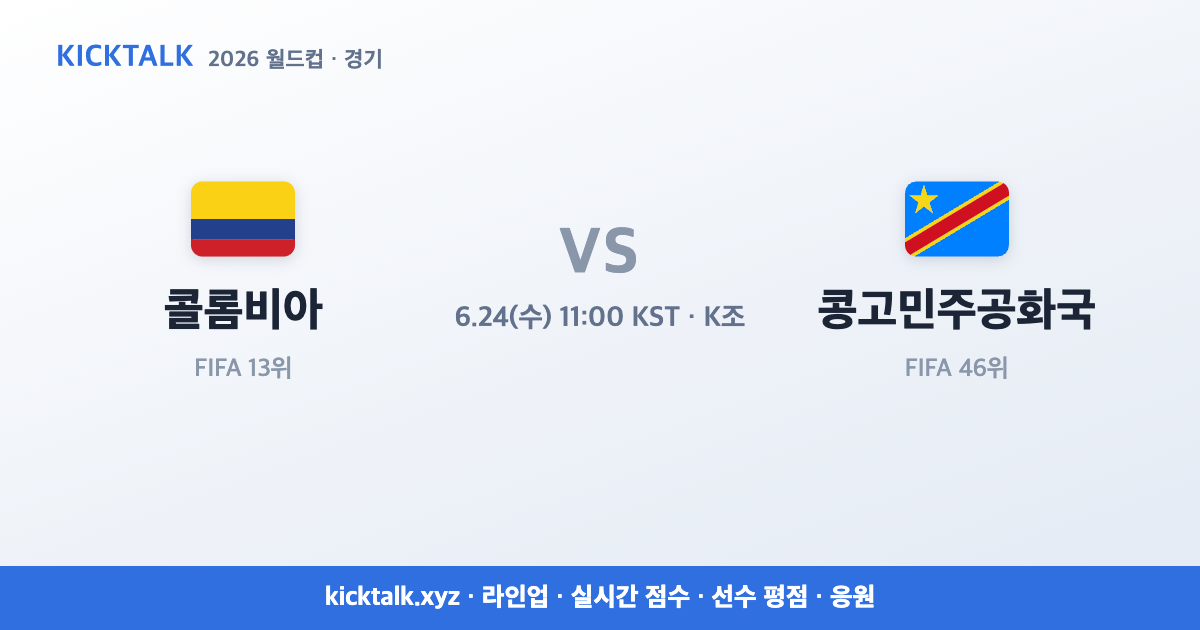
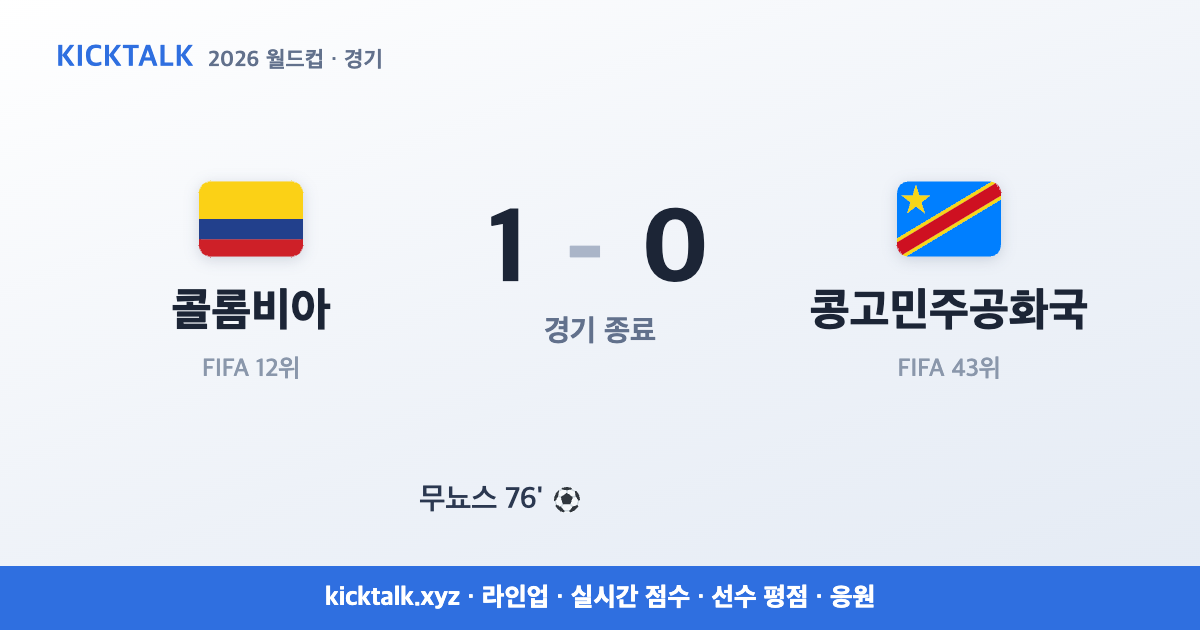
OG 자동재생성(종료경기 결과반영): match-64

diff --git a/m/colombia-vs-dr-congo.html b/m/colombia-vs-dr-congo.html
@@ -1,1 +1,1 @@
-<!DOCTYPE html><html lang=ko><head><meta charset=UTF-8><meta name=viewport content='width=device-width,initial-scale=1'><script async src='https://www.googletagmanager.com/gtag/js?id=G-KNLJ29Y409'></script><script>window.dataLayer=window.dataLayer||[];function gtag(){dataLayer.push(arguments);}gtag('js',new Date());gtag('config','G-KNLJ29Y409');</script><title>콜롬비아 vs 콩고민주공화국 중계·라인업·선수평점 | 킥톡 2026 월드컵</title><meta name=description content='콜롬비아 vs 콩고민주공화국 6/24(수) 11:00 KST 킥오프 (K조). 예상·확정 라인업, 실시간 중계 스코어, 선수 평점·MVP 투표, 응원·하이라이트까지 킥톡에서 한눈에.'><link rel=canonical href='https://kicktalk.xyz/m/colombia-vs-dr-congo.html'><meta name=robots content='index,follow'><meta property=og:type content=website><meta property=og:title content='콜롬비아 vs 콩고민주공화국 — 중계·라인업·평점 | 킥톡'><meta property=og:description content='콜롬비아 vs 콩고민주공화국 6/24(수) 11:00 KST 킥오프 (K조). 예상·확정 라인업, 실시간 중계 스코어, 선수 평점·MVP 투표, 응원·하이라이트까지 킥톡에서 한눈에.'><meta property=og:url content='https://kicktalk.xyz/m/colombia-vs-dr-congo.html'><meta property=og:image content='https://kicktalk.xyz/ogm/colombia-vs-dr-congo.png?v=3'><meta property=og:image:width content='1200'><meta property=og:image:height content='630'><meta name=twitter:card content='summary_large_image'><meta name=twitter:title content='콜롬비아 vs 콩고민주공화국 | 킥톡'><meta name=twitter:description content='콜롬비아 vs 콩고민주공화국 6/24(수) 11:00 KST 킥오프 (K조). 예상·확정 라인업, 실시간 중계 스코어, 선수 평점·MVP 투표, 응원·하이라이트까지 킥톡에서 한눈에.'><meta name=twitter:image content='https://kicktalk.xyz/ogm/colombia-vs-dr-congo.png?v=3'><script type=application/ld+json>{"@context":"https://schema.org","@type":"SportsEvent","name":"콜롬비아 vs 콩고민주공화국","sport":"축구","description":"콜롬비아 vs 콩고민주공화국 6/24(수) 11:00 KST 킥오프 (K조). 예상·확정 라인업, 실시간 중계 스코어, 선수 평점·MVP 투표, 응원·하이라이트까지 킥톡에서 한눈에.","startDate":"2026-06-23","eventStatus":"https://schema.org/EventScheduled","location":{"@type":"Place","name":"Estadio Akron, Zapopan","address":{"@type":"PostalAddress","addressLocality":"Zapopan"}},"image":["https://kicktalk.xyz/ogm/colombia-vs-dr-congo.png"],"url":"https://kicktalk.xyz/m/colombia-vs-dr-congo.html","organizer":{"@type":"Organization","name":"FIFA","url":"https://www.fifa.com"},"performer":[{"@type":"SportsTeam","name":"콜롬비아"},{"@type":"SportsTeam","name":"콩고민주공화국"}],"competitor":[{"@type":"SportsTeam","name":"콜롬비아"},{"@type":"SportsTeam","name":"콩고민주공화국"}]}</script><style>body{margin:0;background:#070d18;color:#eaf0fb;font-family:-apple-system,'Apple SD Gothic Neo',sans-serif;line-height:1.6}.wrap{max-width:680px;margin:0 auto;padding:20px;text-align:center}a{color:#4f8cff;text-decoration:none}.brand{font-weight:800;padding:8px 0;font-size:15px}h1{font-size:26px;margin:18px 0 6px}.vs{color:#9fb0cc;font-size:18px;font-weight:600}.meta{color:#9fb0cc;font-size:14px;margin:0 0 8px}h2{font-size:14px;color:#9fb0cc;margin:22px 0 8px}ul.wp{list-style:none;padding:0;text-align:left}ul.wp li{background:#111c30;border:1px solid #243049;border-radius:8px;padding:9px 12px;margin-bottom:6px;font-size:14px}.cta{display:inline-block;background:#4f8cff;color:#06122a;font-weight:800;border-radius:11px;padding:13px 20px;margin:20px 0 8px}.sub{color:#6f7d96;font-size:12.5px}.tlinks{font-size:13.5px;margin-top:14px}.ft{margin-top:26px;padding-top:14px;border-top:1px solid #243049;color:#6f7d96;font-size:12.5px}.ft a{color:#9fb0cc}</style></head><body><div class=wrap><div class=brand>⚽ <a href='https://kicktalk.xyz/'>킥톡 KickTalk</a></div><h1>🇨🇴 콜롬비아 <span class=vs>vs</span> 콩고민주공화국 🇨🇩</h1><p class=meta>6/24(수) 11:00 KST · K조 · Estadio Akron, Zapopan</p><h2>콜롬비아 vs 콩고민주공화국 경기 정보·중계</h2><p>콜롬비아 vs 콩고민주공화국 경기는 6/24(수) 11:00 KST K조에 열립니다. 예상·확정 라인업과 실시간 중계 스코어, 경기 후 선수 평점·MVP 투표를 킥톡에서 무료로 확인하세요. 경기장: Estadio Akron, Zapopan.</p><h2>관전 포인트</h2><ul class=wp><li>콜롬비아 측면 듀오 디아스·무뇨스의 빠른 돌파 대 음벰바를 축으로 한 콩고민주공화국의 단단한 4백, 측면 속도전이 승부의 분수령이 된다.</li><li>하메스의 창의적 찬스 메이킹과 콩고DR의 역습·세트피스 한 방, 양 팀의 결정적 장면을 만드는 방식이 뚜렷이 갈린다.</li><li>위사·바캄부의 침투를 콜롬비아의 조직적 수비 블록이 봉쇄할 수 있을지가 경기 균형을 가르는 변수다.</li></ul><a class=cta href='https://kicktalk.xyz/#match/match-64'>킥톡에서 실시간 점수·라인업·선수평점 보기 →</a><p class=sub>예상 라인업 · 실시간 스코어 · 선수 평점/MVP 투표 · 응원 메시지 · 포인트 베팅</p><p class=tlinks><a href='https://kicktalk.xyz/t/colombia.html'>콜롬비아 선수단</a> · <a href='https://kicktalk.xyz/t/dr-congo.html'>콩고민주공화국 선수단</a></p><div class=ft><a href='https://kicktalk.xyz/'>홈</a> · <a href='https://kicktalk.xyz/about.html'>소개</a> · <a href='https://kicktalk.xyz/privacy.html'>개인정보처리방침</a> · <a href='https://kicktalk.xyz/terms.html'>서비스 약관</a></div></div></body></html>
+<!DOCTYPE html><html lang=ko><head><meta charset=UTF-8><meta name=viewport content='width=device-width,initial-scale=1'><script async src='https://www.googletagmanager.com/gtag/js?id=G-KNLJ29Y409'></script><script>window.dataLayer=window.dataLayer||[];function gtag(){dataLayer.push(arguments);}gtag('js',new Date());gtag('config','G-KNLJ29Y409');</script><title>콜롬비아 vs 콩고민주공화국 중계·라인업·선수평점 | 킥톡 2026 월드컵</title><meta name=description content='콜롬비아 vs 콩고민주공화국 6/24(수) 11:00 KST 킥오프 (K조). 예상·확정 라인업, 실시간 중계 스코어, 선수 평점·MVP 투표, 응원·하이라이트까지 킥톡에서 한눈에.'><link rel=canonical href='https://kicktalk.xyz/m/colombia-vs-dr-congo.html'><meta name=robots content='index,follow'><meta property=og:type content=website><meta property=og:title content='콜롬비아 vs 콩고민주공화국 — 중계·라인업·평점 | 킥톡'><meta property=og:description content='콜롬비아 vs 콩고민주공화국 6/24(수) 11:00 KST 킥오프 (K조). 예상·확정 라인업, 실시간 중계 스코어, 선수 평점·MVP 투표, 응원·하이라이트까지 킥톡에서 한눈에.'><meta property=og:url content='https://kicktalk.xyz/m/colombia-vs-dr-congo.html'><meta property=og:image content='https://kicktalk.xyz/ogm/colombia-vs-dr-congo.png?v=4'><meta property=og:image:width content='1200'><meta property=og:image:height content='630'><meta name=twitter:card content='summary_large_image'><meta name=twitter:title content='콜롬비아 vs 콩고민주공화국 | 킥톡'><meta name=twitter:description content='콜롬비아 vs 콩고민주공화국 6/24(수) 11:00 KST 킥오프 (K조). 예상·확정 라인업, 실시간 중계 스코어, 선수 평점·MVP 투표, 응원·하이라이트까지 킥톡에서 한눈에.'><meta name=twitter:image content='https://kicktalk.xyz/ogm/colombia-vs-dr-congo.png?v=4'><script type=application/ld+json>{"@context":"https://schema.org","@type":"SportsEvent","name":"콜롬비아 vs 콩고민주공화국","sport":"축구","description":"콜롬비아 vs 콩고민주공화국 6/24(수) 11:00 KST 킥오프 (K조). 예상·확정 라인업, 실시간 중계 스코어, 선수 평점·MVP 투표, 응원·하이라이트까지 킥톡에서 한눈에.","startDate":"2026-06-23","eventStatus":"https://schema.org/EventScheduled","location":{"@type":"Place","name":"Estadio Akron, Zapopan","address":{"@type":"PostalAddress","addressLocality":"Zapopan"}},"image":["https://kicktalk.xyz/ogm/colombia-vs-dr-congo.png"],"url":"https://kicktalk.xyz/m/colombia-vs-dr-congo.html","organizer":{"@type":"Organization","name":"FIFA","url":"https://www.fifa.com"},"performer":[{"@type":"SportsTeam","name":"콜롬비아"},{"@type":"SportsTeam","name":"콩고민주공화국"}],"competitor":[{"@type":"SportsTeam","name":"콜롬비아"},{"@type":"SportsTeam","name":"콩고민주공화국"}]}</script><style>body{margin:0;background:#070d18;color:#eaf0fb;font-family:-apple-system,'Apple SD Gothic Neo',sans-serif;line-height:1.6}.wrap{max-width:680px;margin:0 auto;padding:20px;text-align:center}a{color:#4f8cff;text-decoration:none}.brand{font-weight:800;padding:8px 0;font-size:15px}h1{font-size:26px;margin:18px 0 6px}.vs{color:#9fb0cc;font-size:18px;font-weight:600}.meta{color:#9fb0cc;font-size:14px;margin:0 0 8px}h2{font-size:14px;color:#9fb0cc;margin:22px 0 8px}ul.wp{list-style:none;padding:0;text-align:left}ul.wp li{background:#111c30;border:1px solid #243049;border-radius:8px;padding:9px 12px;margin-bottom:6px;font-size:14px}.cta{display:inline-block;background:#4f8cff;color:#06122a;font-weight:800;border-radius:11px;padding:13px 20px;margin:20px 0 8px}.sub{color:#6f7d96;font-size:12.5px}.tlinks{font-size:13.5px;margin-top:14px}.ft{margin-top:26px;padding-top:14px;border-top:1px solid #243049;color:#6f7d96;font-size:12.5px}.ft a{color:#9fb0cc}</style></head><body><div class=wrap><div class=brand>⚽ <a href='https://kicktalk.xyz/'>킥톡 KickTalk</a></div><h1>🇨🇴 콜롬비아 <span class=vs>vs</span> 콩고민주공화국 🇨🇩</h1><p class=meta>6/24(수) 11:00 KST · K조 · Estadio Akron, Zapopan</p><h2>콜롬비아 vs 콩고민주공화국 경기 정보·중계</h2><p>콜롬비아 vs 콩고민주공화국 경기는 6/24(수) 11:00 KST K조에 열립니다. 예상·확정 라인업과 실시간 중계 스코어, 경기 후 선수 평점·MVP 투표를 킥톡에서 무료로 확인하세요. 경기장: Estadio Akron, Zapopan.</p><h2>관전 포인트</h2><ul class=wp><li>콜롬비아 측면 듀오 디아스·무뇨스의 빠른 돌파 대 음벰바를 축으로 한 콩고민주공화국의 단단한 4백, 측면 속도전이 승부의 분수령이 된다.</li><li>하메스의 창의적 찬스 메이킹과 콩고DR의 역습·세트피스 한 방, 양 팀의 결정적 장면을 만드는 방식이 뚜렷이 갈린다.</li><li>위사·바캄부의 침투를 콜롬비아의 조직적 수비 블록이 봉쇄할 수 있을지가 경기 균형을 가르는 변수다.</li></ul><a class=cta href='https://kicktalk.xyz/#match/match-64'>킥톡에서 실시간 점수·라인업·선수평점 보기 →</a><p class=sub>예상 라인업 · 실시간 스코어 · 선수 평점/MVP 투표 · 응원 메시지 · 포인트 베팅</p><p class=tlinks><a href='https://kicktalk.xyz/t/colombia.html'>콜롬비아 선수단</a> · <a href='https://kicktalk.xyz/t/dr-congo.html'>콩고민주공화국 선수단</a></p><div class=ft><a href='https://kicktalk.xyz/'>홈</a> · <a href='https://kicktalk.xyz/about.html'>소개</a> · <a href='https://kicktalk.xyz/privacy.html'>개인정보처리방침</a> · <a href='https://kicktalk.xyz/terms.html'>서비스 약관</a></div></div></body></html>